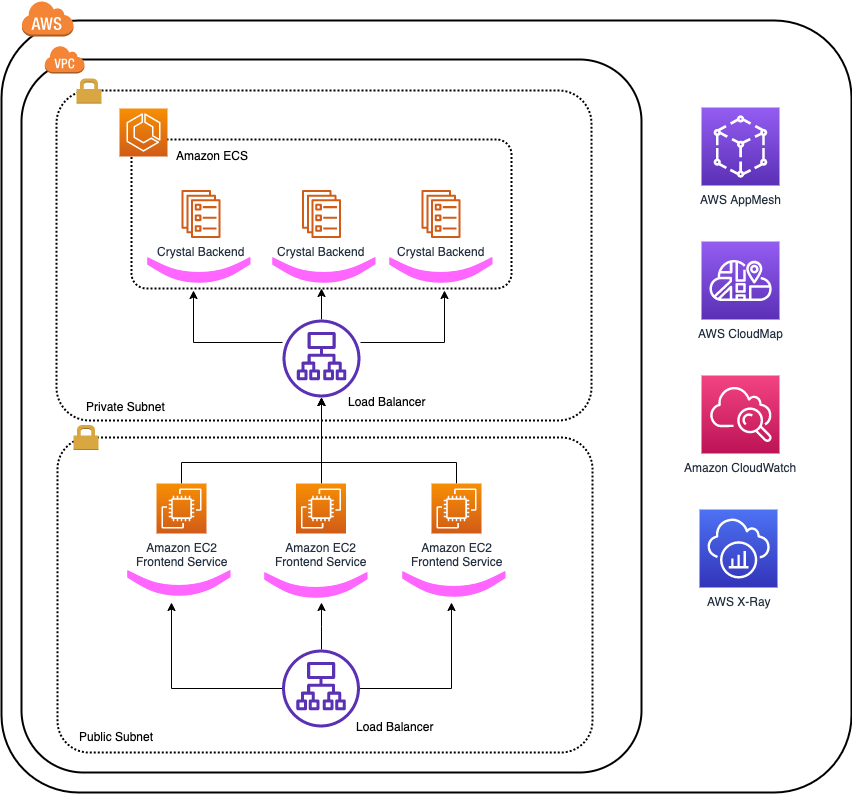
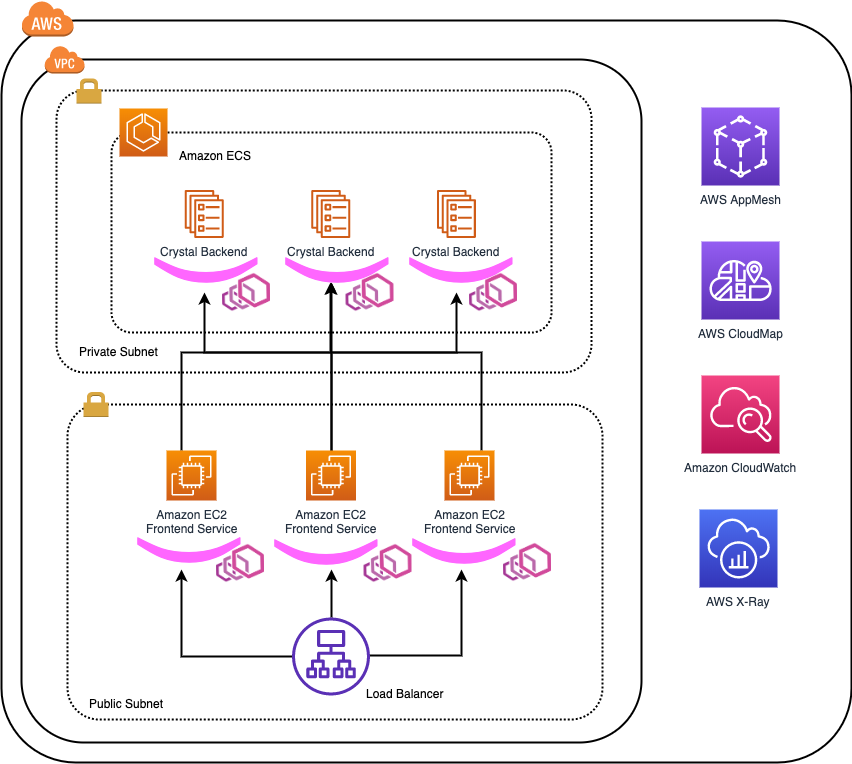
Updating architecture and changing service discovery chapter name

diff --git a/content/servicediscovery/_index.md b/content/servicediscovery/_index.md
@@ -1,5 +1,5 @@
 ---
-title: "Service Discovery"
+title: "Cloud Map Based Service Discovery"
 chapter: true
 weight: 35
 ---
